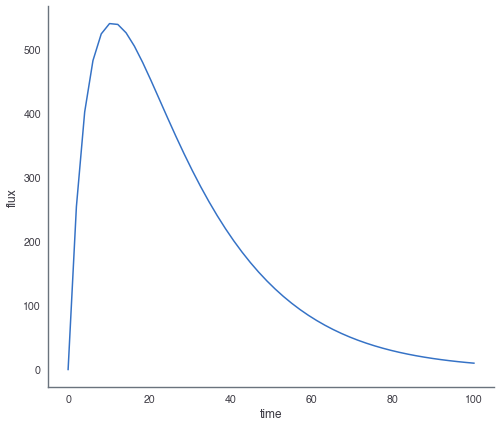
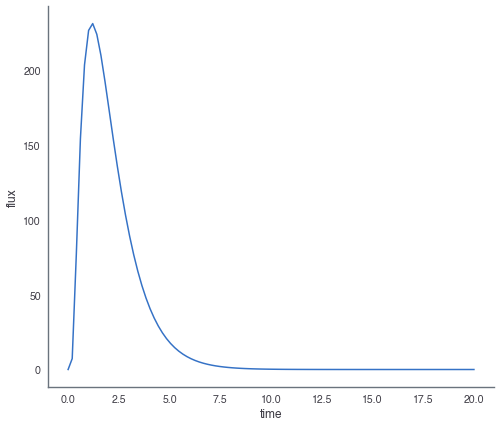
update demo

diff --git a/README.md b/README.md
@@ -18,12 +18,15 @@ After simulation, a realistic background and temporally evolving spectrum are cr
 Cool?
 
 ```python
-
 import matplotlib.pyplot as plt
 %matplotlib inline
+from jupyterthemes import jtplot
 
 import cosmogrb
 ```
+
+    You do not have threeML installed
+
 
 # Demo of Creating a GBM GRB
 
@@ -40,7 +43,8 @@ grb = cosmogrb.GBMGRB_CPL(
     ep=500.0,
     tau=2.0,
     trise=1.0,
-    duration=20.0,
+    tdecay=1.,
+    duration=80.0,
     T0=0.1,
 )
 ```
@@ -49,7 +53,7 @@ grb = cosmogrb.GBMGRB_CPL(
 
 
 ```python
-time = np.linspace(0, 100, 50)
+time = np.linspace(0, 20, 100)
 
 grb.display_energy_integrated_light_curve(time);
 
@@ -94,14 +98,25 @@ grb_reload = cosmogrb.GRBSave.from_file('test_grb.h5')
 
 
 ```python
+fig, axes = plt.subplots(4,4,sharex=True,sharey=False,figsize=(15,15))
+row=0
+col = 0
 for key in grb_reload.keys:
-    fig, ax = plt.subplots()
+    ax = axes[row][col]
     
     lightcurve = grb_reload[key]['lightcurve']
     
-    lightcurve.display_lightcurve(ax=ax)
-    lightcurve.display_source(ax=ax)
-    lightcurve.display_background(ax=ax)
+    lightcurve.display_lightcurve(dt=2, ax=ax,lw=.8)
+    lightcurve.display_source(ax=ax,lw=.8)
+    lightcurve.display_background(ax=ax,lw=.8)
+    
+    if col < 3:
+        col+=1
+    else:
+        row+=1
+        col=0
+    
+    
 ```
 
 
@@ -109,55 +124,29 @@ for key in grb_reload.keys:
 
 
 
-![png](demo_files/demo_13_1.png)
+```python
+fig, axes = plt.subplots(4,4,sharex=False,sharey=False,figsize=(15,15))
+row=0
+col = 0
+
+for key in grb_reload.keys:
+    ax = axes[row][col]
+    
+    lightcurve = grb_reload[key]['lightcurve']
+    
+    lightcurve.display_count_spectrum(tmin=0, tmax=5, ax=ax)
+    lightcurve.display_count_spectrum_source(tmin=0, tmax=5, ax=ax)
+    lightcurve.display_count_spectrum_background(tmin=0, tmax=5, ax=ax)
+
+    if col < 3:
+        col+=1
+    else:
+        row+=1
+        col=0
+```
 
 
-
-![png](demo_files/demo_13_2.png)
-
-
-
-![png](demo_files/demo_13_3.png)
-
-
-
-![png](demo_files/demo_13_4.png)
-
-
-
-![png](demo_files/demo_13_5.png)
-
-
-
-![png](demo_files/demo_13_6.png)
-
-
-
-![png](demo_files/demo_13_7.png)
-
-
-
-![png](demo_files/demo_13_8.png)
-
-
-
-![png](demo_files/demo_13_9.png)
-
-
-
-![png](demo_files/demo_13_10.png)
-
-
-
-![png](demo_files/demo_13_11.png)
-
-
-
-![png](demo_files/demo_13_12.png)
-
-
-
-![png](demo_files/demo_13_13.png)
+![png](demo_files/demo_14_0.png)
 
 
 ## Convert HDF5 to standard FITS files 
@@ -168,20 +157,20 @@ cosmogrb.grbsave_to_gbm_fits("test_grb.h5")
 !ls SynthGRB_*
 ```
 
-    SynthGRB_b0.fits      SynthGRB_n3.fits      SynthGRB_n7rsp_n7.rsp
-    SynthGRB_b0.rsp       SynthGRB_n3.rsp       SynthGRB_n8.fits
-    SynthGRB_b0rsp_b0.rsp SynthGRB_n3rsp_n3.rsp SynthGRB_n8.rsp
-    SynthGRB_b1.rsp       SynthGRB_n4.fits      SynthGRB_n8rsp_n8.rsp
-    SynthGRB_b1rsp_b1.rsp SynthGRB_n4.rsp       SynthGRB_n9.fits
-    SynthGRB_n0.fits      SynthGRB_n4rsp_n4.rsp SynthGRB_n9.rsp
-    SynthGRB_n0.rsp       SynthGRB_n5.fits      SynthGRB_n9rsp_n9.rsp
-    SynthGRB_n0rsp_n0.rsp SynthGRB_n5.rsp       SynthGRB_na.fits
-    SynthGRB_n1.fits      SynthGRB_n5rsp_n5.rsp SynthGRB_na.rsp
-    SynthGRB_n1.rsp       SynthGRB_n6.fits      SynthGRB_narsp_na.rsp
-    SynthGRB_n1rsp_n1.rsp SynthGRB_n6.rsp       SynthGRB_nb.fits
-    SynthGRB_n2.fits      SynthGRB_n6rsp_n6.rsp SynthGRB_nb.rsp
-    SynthGRB_n2.rsp       SynthGRB_n7.fits      SynthGRB_nbrsp_nb.rsp
-    SynthGRB_n2rsp_n2.rsp SynthGRB_n7.rsp
+    SynthGRB_b0.fits      SynthGRB_n3.fits      SynthGRB_n7rsp_n7.rsp
+    SynthGRB_b0.rsp       SynthGRB_n3.rsp       SynthGRB_n8.fits
+    SynthGRB_b0rsp_b0.rsp SynthGRB_n3rsp_n3.rsp SynthGRB_n8.rsp
+    SynthGRB_b1.rsp       SynthGRB_n4.fits      SynthGRB_n8rsp_n8.rsp
+    SynthGRB_b1rsp_b1.rsp SynthGRB_n4.rsp       SynthGRB_n9.fits
+    SynthGRB_n0.fits      SynthGRB_n4rsp_n4.rsp SynthGRB_n9.rsp
+    SynthGRB_n0.rsp       SynthGRB_n5.fits      SynthGRB_n9rsp_n9.rsp
+    SynthGRB_n0rsp_n0.rsp SynthGRB_n5.rsp       SynthGRB_na.fits
+    SynthGRB_n1.fits      SynthGRB_n5rsp_n5.rsp SynthGRB_na.rsp
+    SynthGRB_n1.rsp       SynthGRB_n6.fits      SynthGRB_narsp_na.rsp
+    SynthGRB_n1rsp_n1.rsp SynthGRB_n6.rsp       SynthGRB_nb.fits
+    SynthGRB_n2.fits      SynthGRB_n6rsp_n6.rsp SynthGRB_nb.rsp
+    SynthGRB_n2.rsp       SynthGRB_n7.fits      SynthGRB_nbrsp_nb.rsp
+    SynthGRB_n2rsp_n2.rsp SynthGRB_n7.rsp
 
 
 
